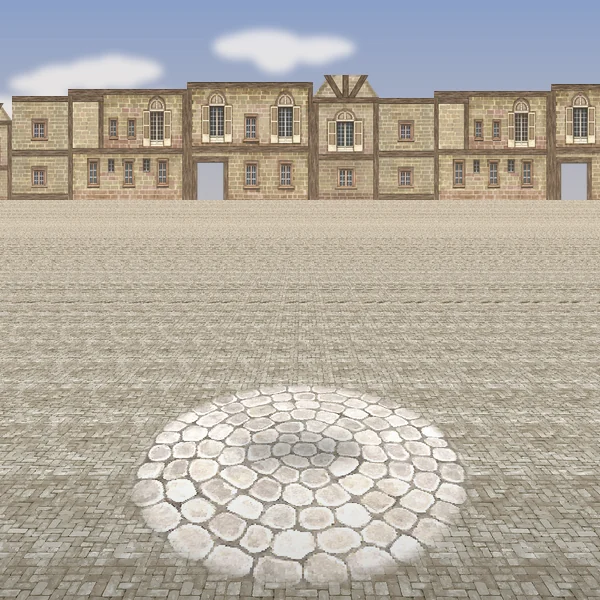
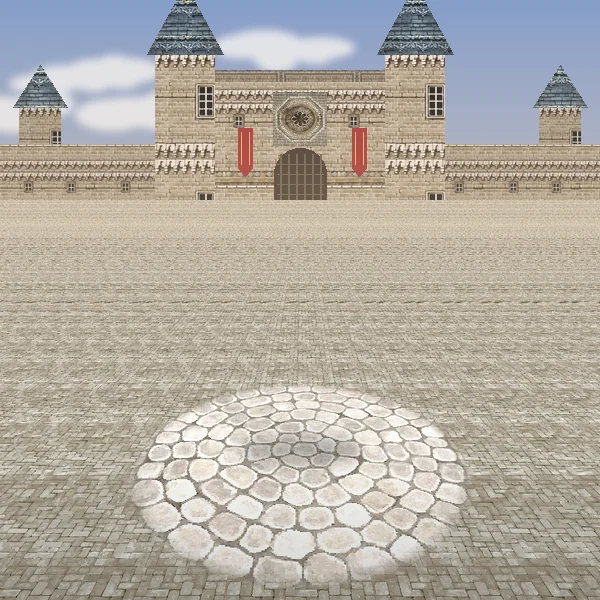
feat(dress-up): Prontera backdrop shows the castle instead of houses
A keep with a rose window, a gate and red banners, two tall towers with
slate cones, smaller side towers and the outer wall, built from the client's
castle textures.

Claude-Session: https://claude.ai/code/session_01FWMQbyjXViH2ZYnD7EkE3E

Changed region(s): [[0.0, 0.0, 1.0, 0.36]]

diff --git a/scripts/build-dress-up-backdrops.py b/scripts/build-dress-up-backdrops.py
@@ -1,5 +1,5 @@
 """The dress room's scene backdrops (grass field, Prontera plaza), drawn from the client's ground
-and building textures: a sky, a horizon line of trees or houses, and the ground laid back in
+and castle textures: a sky, a horizon line of trees or the Prontera castle, and the ground laid back in
 perspective under the character's feet (y 450 of 600, the stage's origin 150 of 200 at 3x).
 
 Only these derived pictures are committed; the textures stay in the local client.
@@ -163,20 +163,77 @@ def grass():
     return im
 
 
+def tiled(im, texture, box, scale, shade=0.0):
+    """Fill box (x0, y0, x1, y1) with texture repeated at scale, anchored at the box's top left."""
+    x0, y0, x1, y1 = (int(v) for v in box)
+    t = texture.resize((max(1, int(texture.width * scale)), max(1, int(texture.height * scale))), Image.LANCZOS)
+    fill = Image.new('RGBA', (x1 - x0, y1 - y0))
+    for ty in range(0, y1 - y0, t.height):
+        for tx in range(0, x1 - x0, t.width):
+            fill.alpha_composite(t, (tx, ty))
+    if shade:
+        a = np.asarray(fill).astype(np.float32)
+        a[..., :3] *= 1 - shade
+        fill = Image.fromarray(a.astype(np.uint8))
+    im.alpha_composite(fill, (x0, y0))
+
+
+def cone(im, slate, cx, base_y, half_w, height):
+    """A pointed slate roof on a round tower."""
+    mask = Image.new('L', (W, H), 0)
+    ImageDraw.Draw(mask).polygon([(cx - half_w, base_y), (cx + half_w, base_y), (cx, base_y - height)], fill=255)
+    layer = Image.new('RGBA', (W, H))
+    tiled(layer, slate, (0, 0, W, H), 0.5)
+    a = np.asarray(layer).astype(np.float32)
+    xs = np.arange(W)[None, :]
+    a[..., :3] *= (0.75 + 0.35 * np.clip(1 - np.abs(xs - cx) / max(half_w, 1), 0, 1))[..., None]  # rounded light
+    layer = Image.fromarray(a.astype(np.uint8))
+    layer.putalpha(mask)
+    im.alpha_composite(layer)
+
+
+def castle(im):
+    """Prontera castle on the horizon: a keep with a rose window and a gate, two tall towers with
+    slate cones, smaller towers at the sides, and the outer wall across."""
+    P = '프론테라/'
+    wall = keyed(P + 'pron-newcastle.bmp')
+    tower = keyed(P + 'pron-newcastle-1.bmp')
+    plain = keyed(P + 'pron-castle7.bmp')
+    slate = keyed(P + 'pron-castle4.bmp').crop((0, 0, 128, 70))
+    rose = keyed(P + 'pron-castle-2.bmp')
+    base = HZ + 6
+    for cx, top, w in ((40, 105, 42), (560, 105, 42)):            # far side towers
+        tiled(im, tower, (cx - w / 2, top, cx + w / 2, base), 0.32, shade=0.12)
+        cone(im, slate, cx, top + 2, w / 2 + 6, 42)
+    tiled(im, wall, (0, base - 62, W, base), 0.38, shade=0.08)    # outer wall
+    tiled(im, wall, (205, 70, 395, base), 0.45)                    # keep
+    tiled(im, plain, (205, 70, 395, 82), 0.3, shade=0.2)           # cornice
+    r = rose.resize((54, 54), Image.LANCZOS)
+    im.alpha_composite(r, (300 - 27, 92))
+    d = ImageDraw.Draw(im)
+    gx, gw, gh = 300, 26, 58                                       # the gate: an arch with a portcullis
+    d.rectangle([gx - gw, base - gh + gw, gx + gw, base], fill=(46, 34, 28, 255))
+    d.pieslice([gx - gw, base - gh, gx + gw, base - gh + 2 * gw], 180, 360, fill=(46, 34, 28, 255))
+    for bx in range(gx - gw + 6, gx + gw, 8):
+        d.line([bx, base - gh + 6, bx, base], fill=(92, 78, 64, 255), width=2)
+    for by in range(base - gh + 16, base, 10):
+        d.line([gx - gw + 3, by, gx + gw - 3, by], fill=(92, 78, 64, 255), width=1)
+    for bx in (238, 352):                                          # Prontera's red banners
+        d.rectangle([bx, 128, bx + 14, 168], fill=(158, 30, 36, 255))
+        d.polygon([(bx, 168), (bx + 14, 168), (bx + 7, 176)], fill=(158, 30, 36, 255))
+        d.line([bx + 3, 132, bx + 3, 164], fill=(222, 182, 82, 255), width=1)
+        d.line([bx + 11, 132, bx + 11, 164], fill=(222, 182, 82, 255), width=1)
+    for cx in (185, 415):                                          # main towers
+        tiled(im, tower, (cx - 30, 52, cx + 30, base), 0.42)
+        cone(im, slate, cx, 54, 38, 70)
+
+
 def prontera():
     im = sky((120, 150, 205), (240, 214, 180), clouds=4, seed=11)
-    walls = [keyed(f'프론테라/{n}') for n in ('ho-wall-1.bmp', 'ho-wall-2.bmp', 'ho-wall-3.bmp', 'ho-wall.bmp')]
-    x, i = -40, 0
-    while x < W:
-        w = walls[i % len(walls)]
-        h = 105 + (i * 37) % 30
-        s = w.resize((int(w.width * h / w.height), h), Image.LANCZOS)
-        im.alpha_composite(s, (x, HZ + 8 - h))
-        x += s.width
-        i += 1
+    castle(im)
     haze = Image.new('RGBA', (W, H), (240, 214, 180, 0))
     a = np.zeros((H, W), np.uint8)
-    a[:HZ + 8] = np.linspace(40, 90, HZ + 8)[:, None].astype(np.uint8)
+    a[:HZ + 8] = np.linspace(30, 80, HZ + 8)[:, None].astype(np.uint8)
     haze.putalpha(Image.fromarray(a))
     im.alpha_composite(haze)
     g, mask = floor(tex('필드바닥/prt_도시02.bmp'), 95, centre=tex('필드바닥/prt_도시01.bmp'), haze=(232, 212, 186), fog=0.5)
